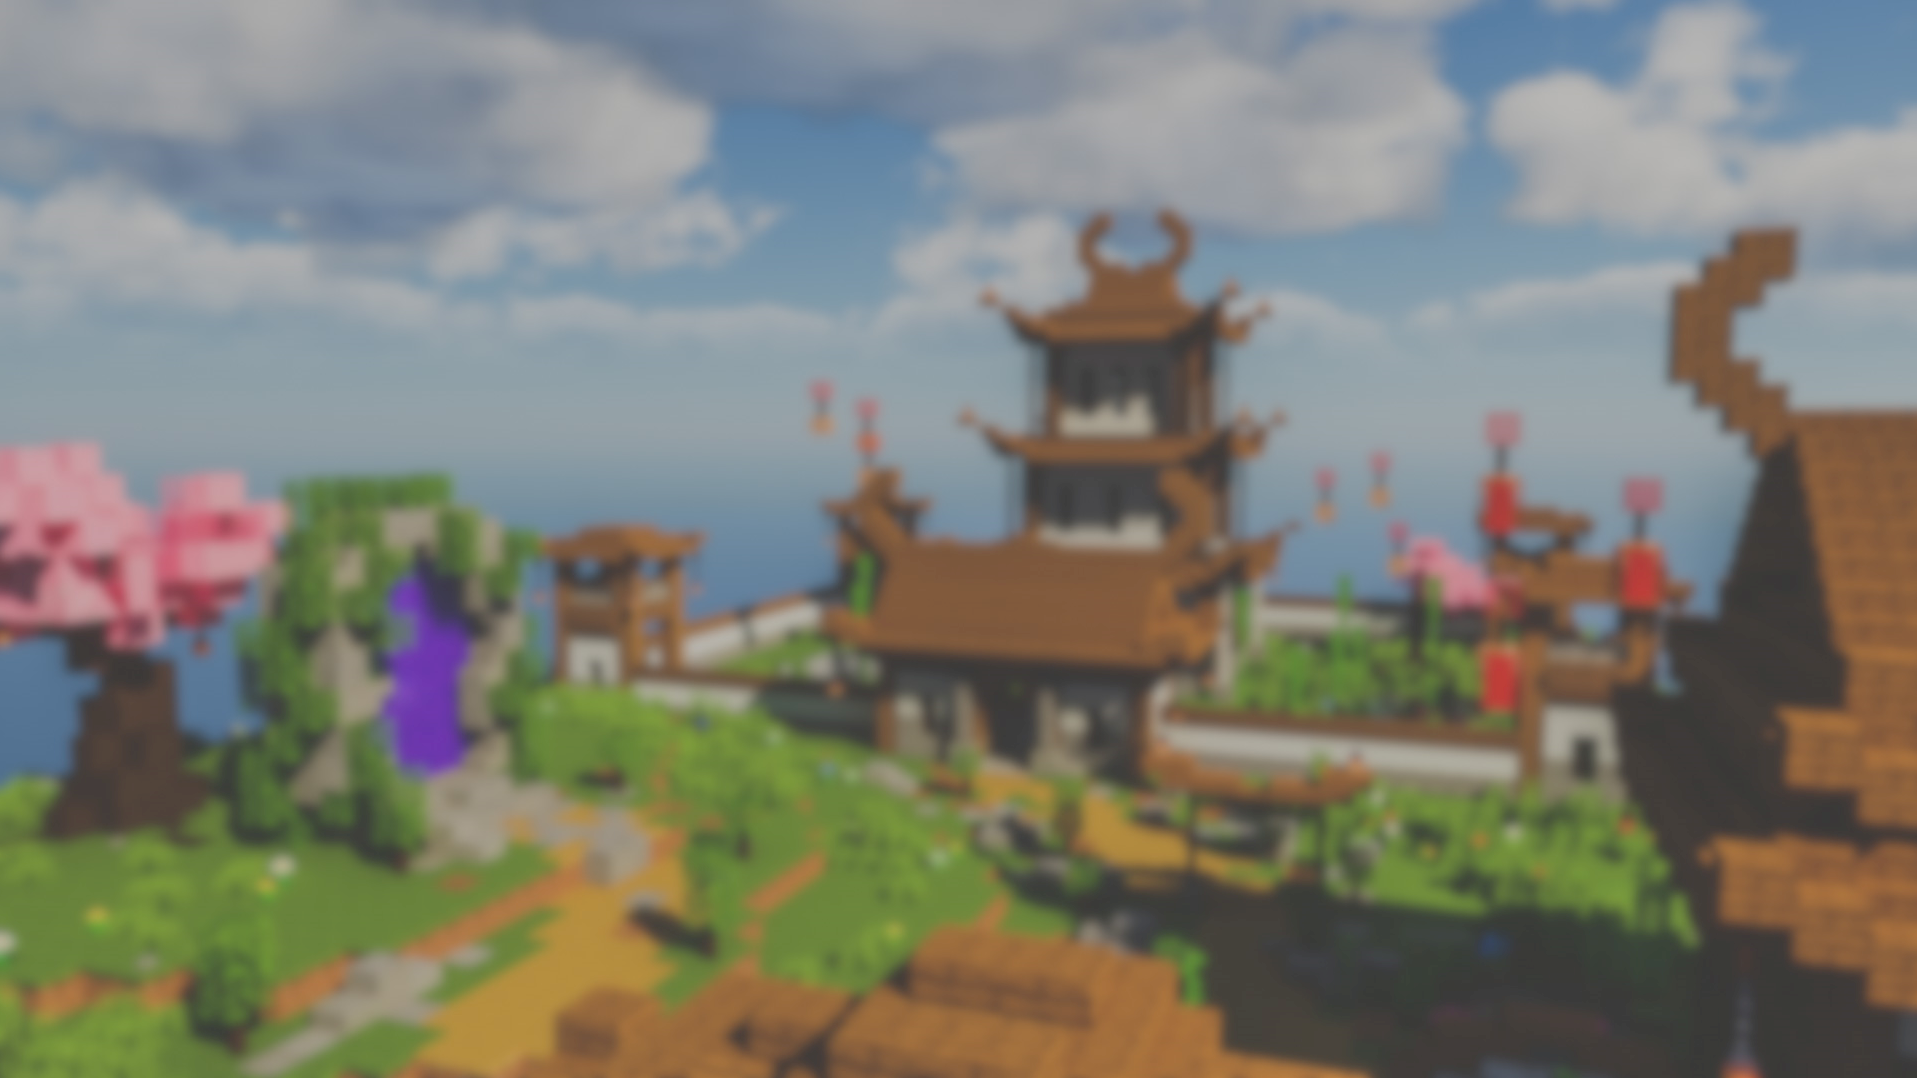
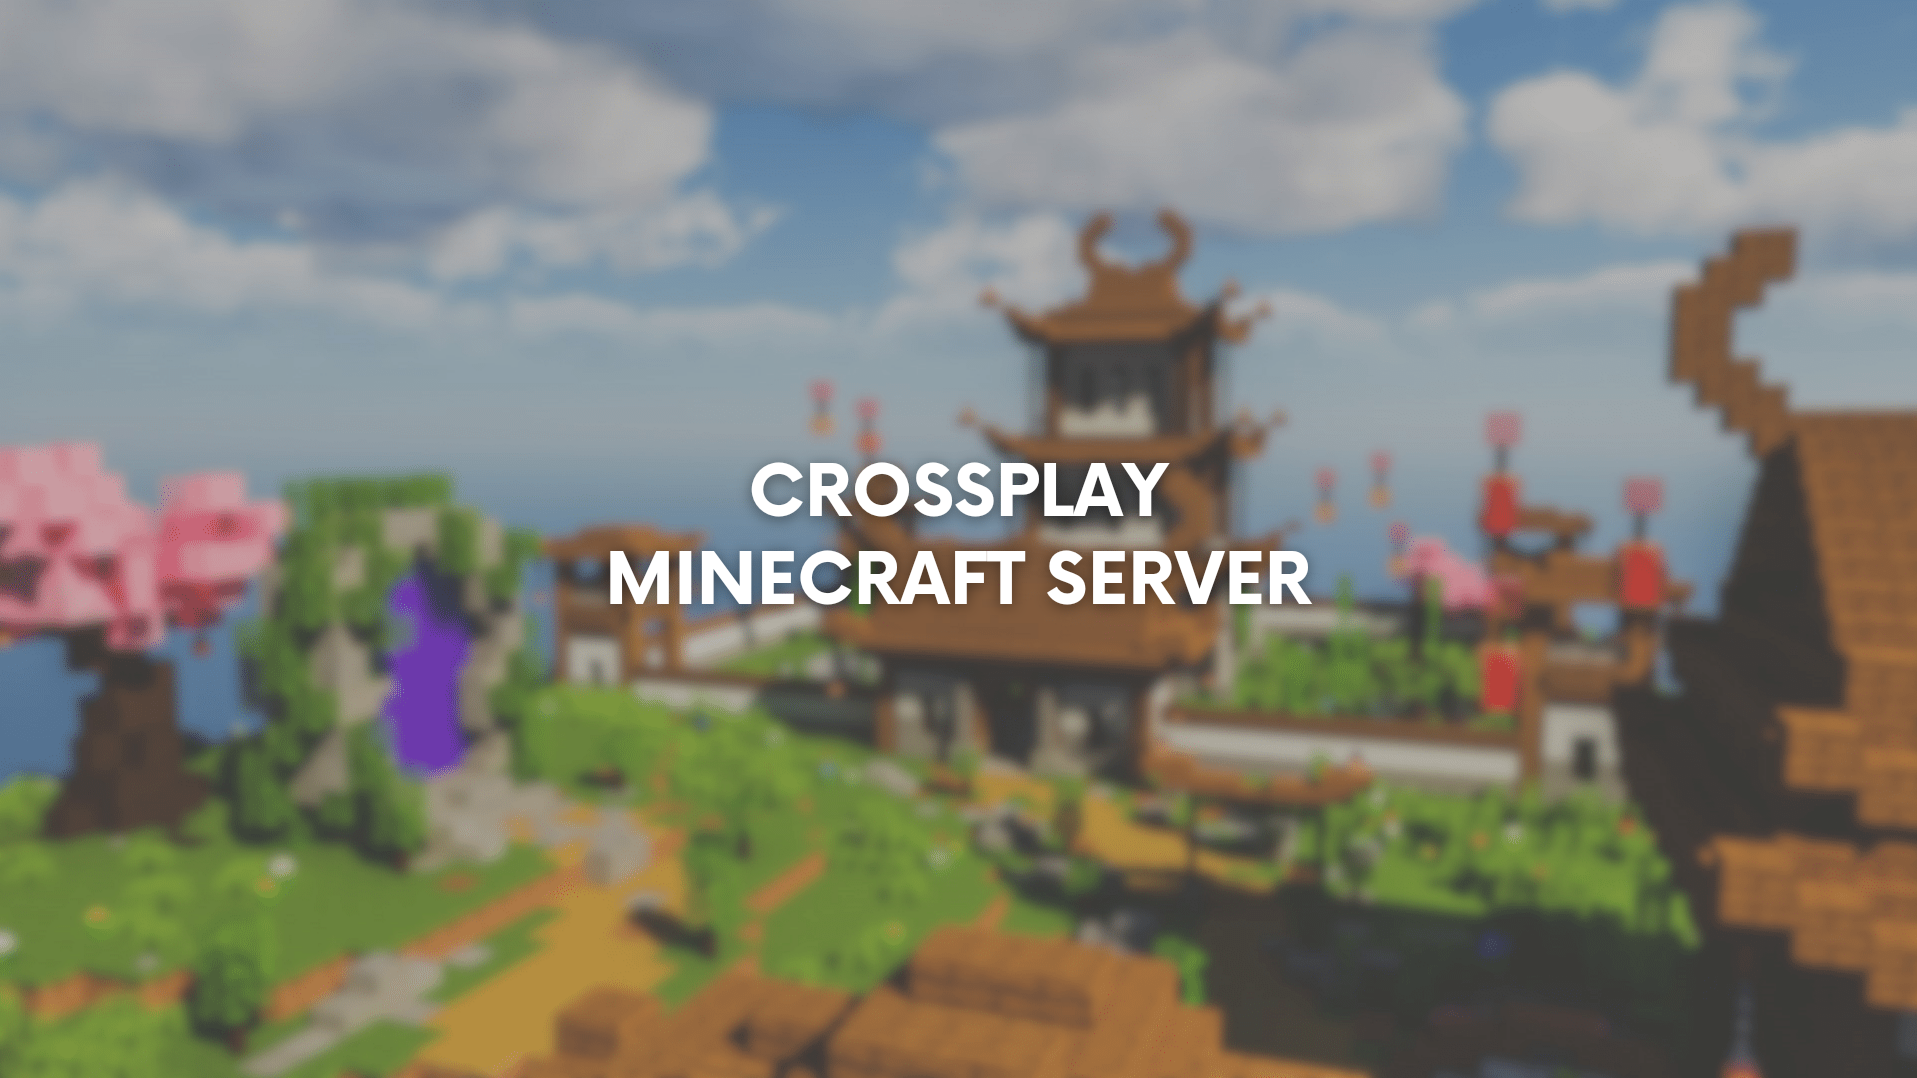
Add files via upload

Changed region(s): [[0.3078, 0.4286, 0.7079, 0.5816]]

diff --git a/main.css b/main.css
@@ -21,7 +21,7 @@ body {
   color: #ffffff;
   font-size: 45px;
   text-align: center;
-  margin-left: 900%;
+  margin-left: 940%;
 }
 
 .title{
